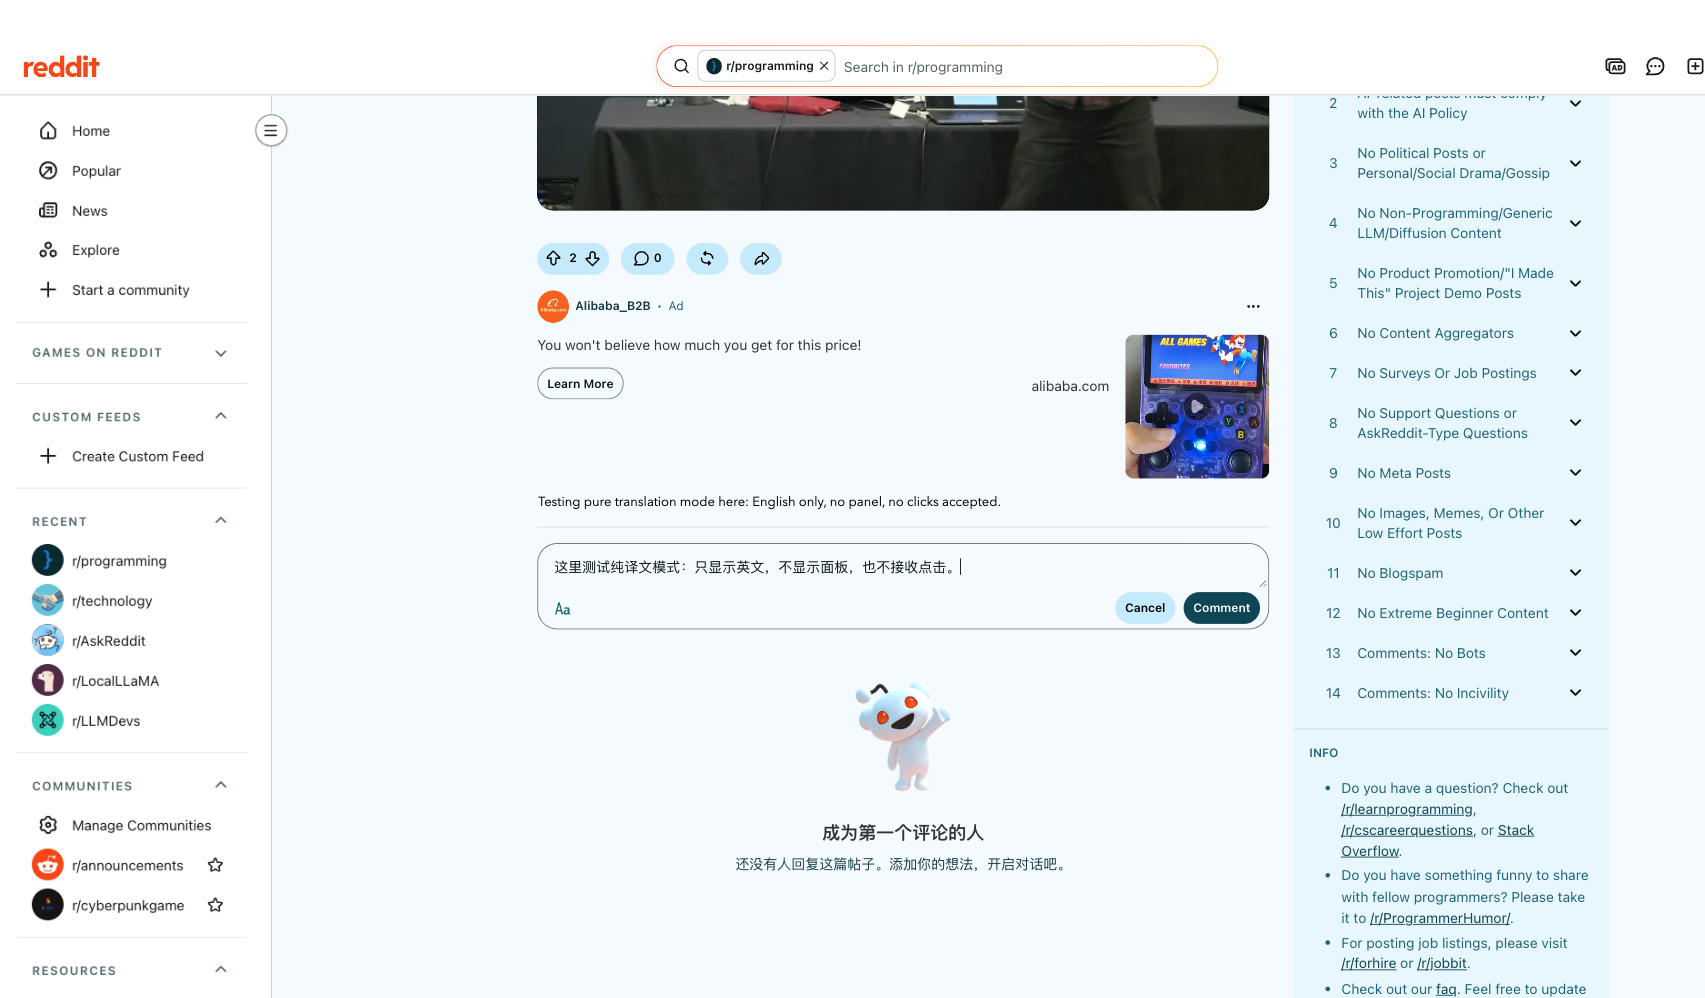
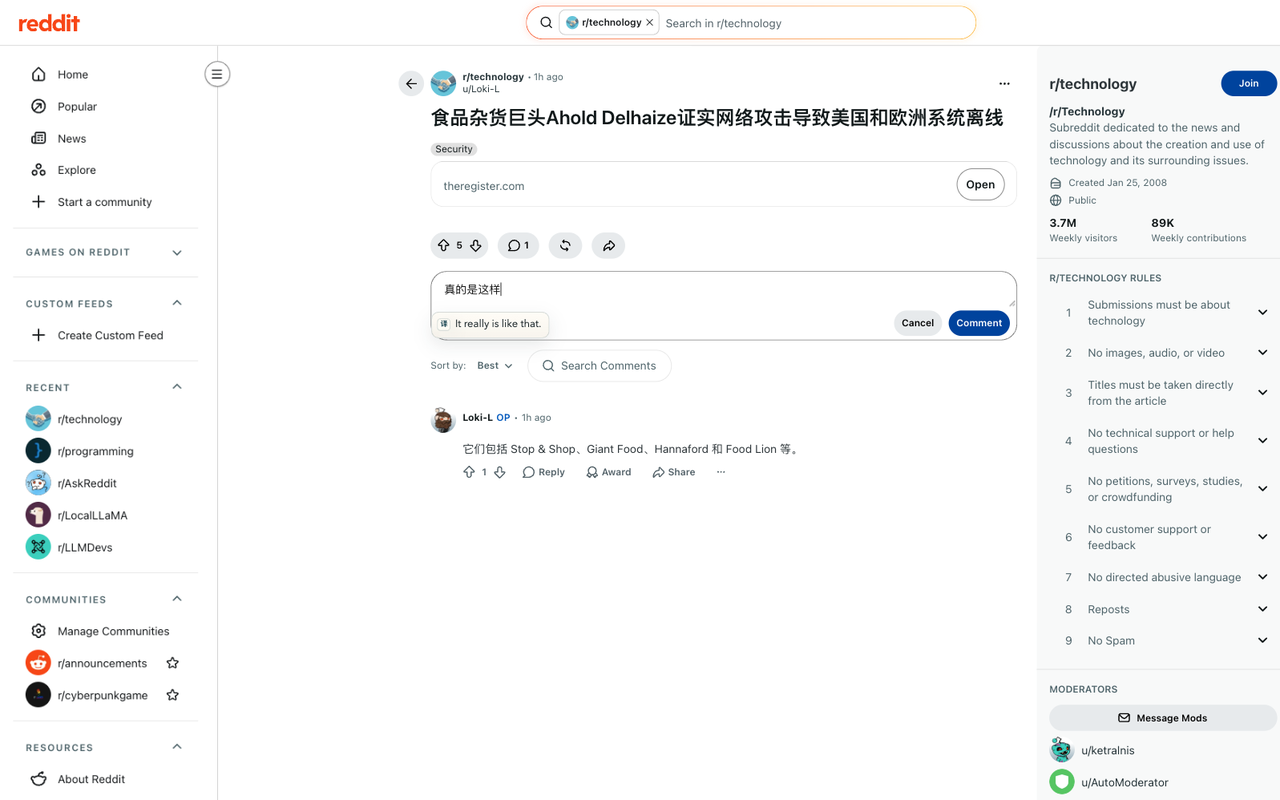
更新写作翻译卡片说明与截图

diff --git a/index.html b/index.html
@@ -71,7 +71,7 @@
         <div class="feature">
           <h2>写作翻译</h2>
           <p>
-            在 Reddit 评论/回复或通用多行编辑器里输入中文，默认显示贴合输入框尺寸、不可点击的纯译文层；点发送时自动替换并继续提交，也可以切换可操作面板。
+            在 Reddit 评论/回复或通用多行编辑器里输入中文，默认显示贴合译文宽度、不可点击且避开发送按钮的纯译文小卡片；点发送时自动替换并继续提交，也可以切换可操作面板。
           </p>
         </div>
         <div class="feature">
